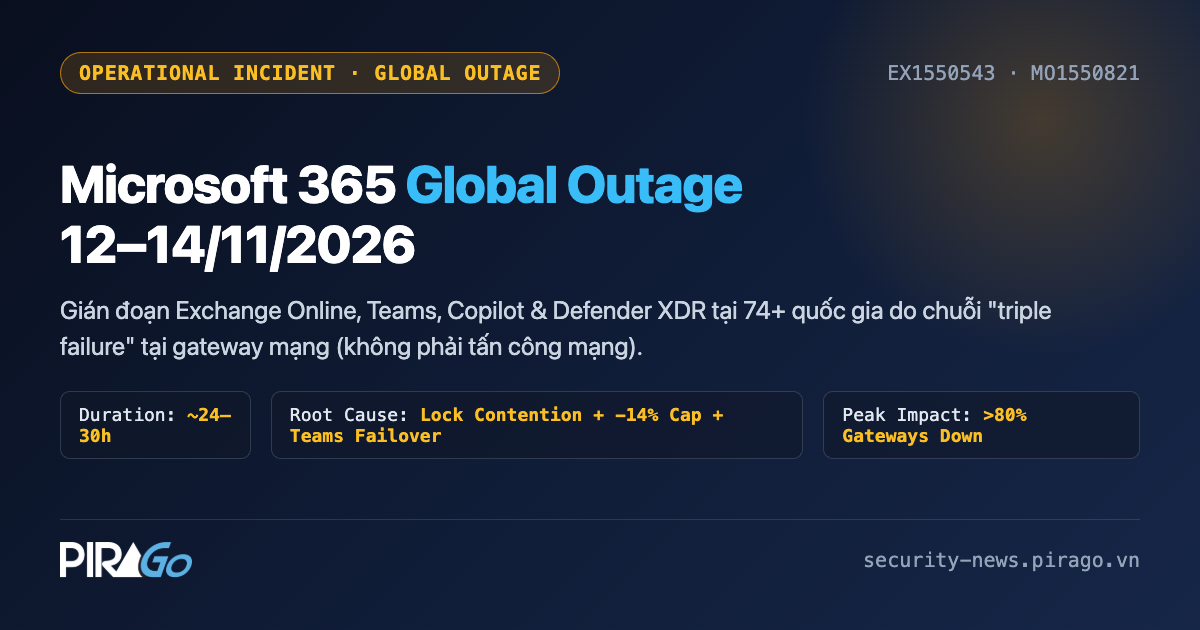
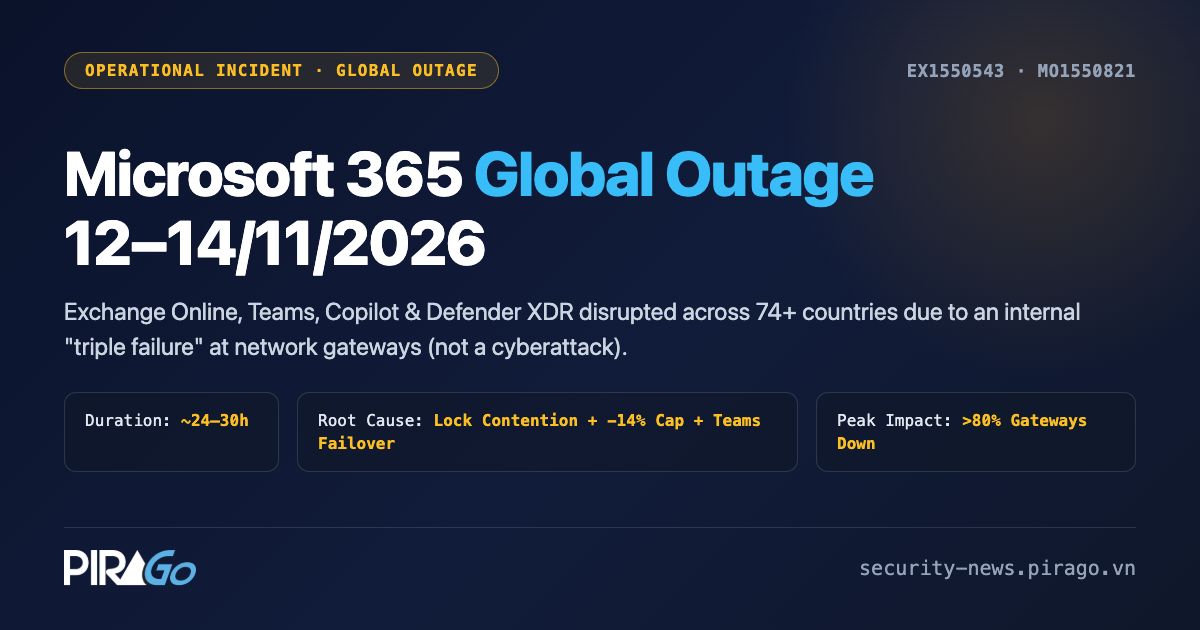
add OG images for archive pages and refresh featured OG images

diff --git a/vulnerabilities/index.html b/vulnerabilities/index.html
@@ -4,6 +4,7 @@ title: "Lỗ hổng bảo mật & CVE (Lưu trữ theo tháng)"
 description: "Danh sách toàn bộ các bài phân tích lỗ hổng bảo mật, zero-day và CVE được lưu trữ theo tháng - PiraGo Security News"
 category: "Lỗ hổng bảo mật & CVE"
 permalink: /vulnerabilities/
+image: /vulnerabilities/vulnerabilities-og.png
 archive_category: vulnerability
 heading: "🛡 Toàn bộ Lỗ hổng bảo mật & CVE"
 subheading: "Liệt kê đầy đủ các bài phân tích lỗ hổng và hướng dẫn vá lỗi đã công bố, sắp xếp theo tháng (mới nhất xếp trên)."

diff --git a/ja/incidents/index.html b/ja/incidents/index.html
@@ -5,6 +5,7 @@ title: "セキュリティ・運用インシデント一覧（月別アーカイ
 description: "公開済みのセキュリティ・運用インシデントレポート全一覧（月別アーカイブ） - PiraGo Security News"
 category: "セキュリティインシデント"
 permalink: /ja/incidents/
+image: /incidents/incidents-og.png
 archive_category: incident
 heading: "🚨 セキュリティ・運用インシデント全一覧"
 subheading: "公開済みのインシデントレポートを発生・公表月別に整理（新しい順）。"

diff --git a/incidents/index.html b/incidents/index.html
@@ -4,6 +4,7 @@ title: "Sự cố an ninh & Vận hành (Lưu trữ theo tháng)"
 description: "Danh sách toàn bộ các báo cáo sự cố an ninh mạng và sự cố vận hành được lưu trữ theo tháng - PiraGo Security News"
 category: "Sự cố an ninh"
 permalink: /incidents/
+image: /incidents/incidents-og.png
 archive_category: incident
 heading: "🚨 Toàn bộ Sự cố an ninh & Vận hành"
 subheading: "Liệt kê đầy đủ các báo cáo sự cố đã công bố, sắp xếp theo tháng (mới nhất xếp trên)."

diff --git a/ja/vulnerabilities/index.html b/ja/vulnerabilities/index.html
@@ -5,6 +5,7 @@ title: "脆弱性・CVE 一覧（月別アーカイブ）"
 description: "公開済みの脆弱性・ゼロデイ・CVE 分析レポート全一覧（月別アーカイブ） - PiraGo Security News"
 category: "脆弱性・CVE"
 permalink: /ja/vulnerabilities/
+image: /vulnerabilities/vulnerabilities-og.png
 archive_category: vulnerability
 heading: "🛡 脆弱性・CVE 全一覧"
 subheading: "公開済みの脆弱性分析・パッチ適用ガイドを公表月別に整理（新しい順）。"
